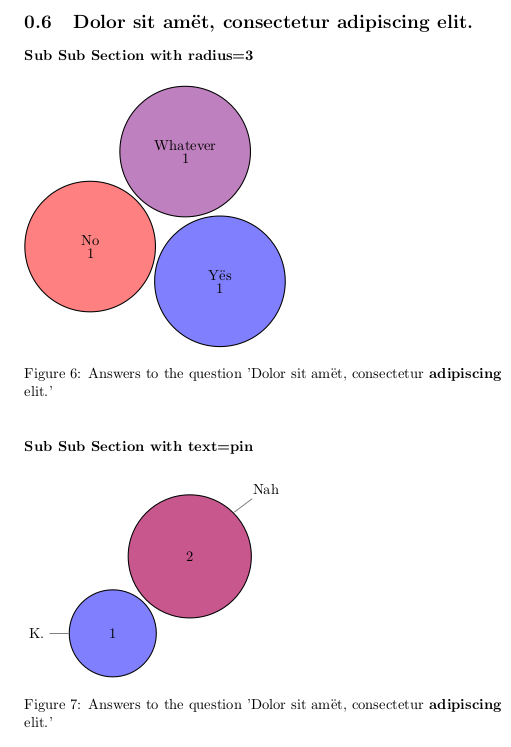
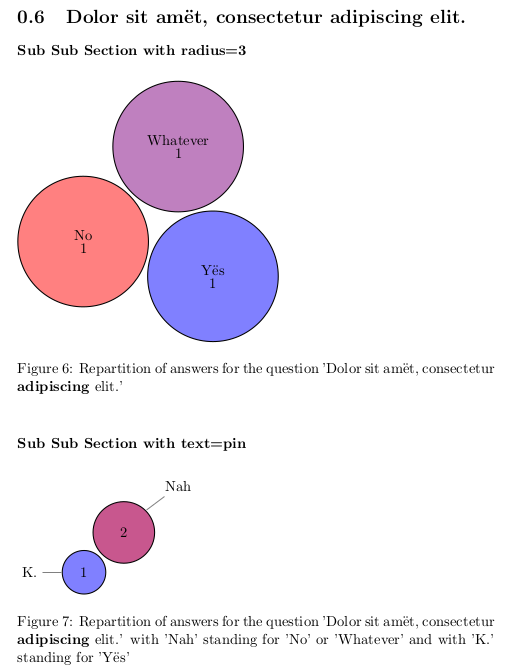
Feat - Better label for tex generated charts
With details about what is displayed in the diagram:
group_together
filter
min_cardinality

diff --git a/survey/exporter/tex/question2tex.py b/survey/exporter/tex/question2tex.py
@@ -9,6 +9,7 @@ from builtins import object
 
 from django.conf import settings
 from django.utils.translation import ugettext_lazy as _
+from django.utils.translation import ungettext
 from future import standard_library
 
 standard_library.install_aliases()
@@ -171,6 +172,35 @@ class Question2Tex(object):
         return raw_answers
 
     @staticmethod
+    def get_caption(question, min_cardinality, filter, group_together):
+        """ Return a caption with an appropriate description of the chart. """
+        caption = "{} ".format(_("Repartition of answers"))
+        if min_cardinality > 0:
+            caption += "{} {} ".format(_("with"), ungettext(
+                "%(min_cardinality)d respondants or more",
+                "%(min_cardinality)d respondant or more",
+                min_cardinality) % {'min_cardinality': min_cardinality, }
+            )
+        if filter:
+            caption += "{} ".format(_("excluding"))
+            for excluded in filter:
+                caption += "'{}', ".format(excluded)
+            caption = "{} ".format(caption[:-2])
+        caption += "%s '%s' " % (
+            _("for the question"), Question2Tex.html2latex(question.text)
+        )
+        if group_together:
+            for key, values in group_together.items():
+                # We duplicate the translations so makemessage find it
+                caption += "with '{}' standing for ".format(key)
+                for value in values:
+                    caption += "'{}' {} ".format(value, _("or"))
+                caption = caption[:-len("{} ".format(_("or")))]
+                caption += "{} ".format(_("and"))
+            caption = caption[:-len("{} ".format(_("and")))]
+        return "{}.".format(caption[:-1])
+
+    @staticmethod
     def chart(question, min_cardinality=0, group_by_letter_case=None,
               group_by_slugify=None, group_together=None, sort_answer=None,
               pos=None, rotate=None, radius=None, color=None,
@@ -203,19 +233,15 @@ class Question2Tex(object):
         results = Question2Tex.get_results(cardinality, sort_answer)
         if not results:
             return str(_("No answers for this question."))
-        chart = """\\pie%s{
-%s
-        }
-""" % (options, results)
-        caption = "\label{figure:q%d-%d} %s '%s'" % (
-            question.pk, latex_label, _("Answers to the question"),
-            Question2Tex.html2latex(question.text)
-        )
+        caption = Question2Tex.get_caption(question, min_cardinality, filter,
+                                           group_together)
         return """
 \\begin{figure}[h!]
     \\begin{tikzpicture}
-        %s
+        \\pie%s{
+%s
+        }
     \\end{tikzpicture}
-    \\caption{%s}
+    \\caption{\label{figure:q%d-%d}%s}
 \\end{figure}
-""" % (chart, caption)
+""" % (options, results, question.pk, latex_label, caption)

diff --git a/survey/tests/exporter/tex/test_question2tex.py b/survey/tests/exporter/tex/test_question2tex.py
@@ -71,6 +71,25 @@ class TestQuestion2Tex(TestManagement):
         question = self.survey.questions.get(text="Aèbc?")
         self.assertIsNotNone(Question2Tex.chart(question, type="cloud"))
 
+    def test_get_caption(self):
+        """ We can create a filtered chart with a proper caption. """
+        qst = self.survey.questions.get(text="Cède?")
+        mc = 0
+        flt = {}
+        gt = {}
+        self.assertIn("2 respondant or more",
+                      Question2Tex.get_caption(qst, 2, flt, gt))
+        self.assertIn("excluding 'Toto' ",
+                      Question2Tex.get_caption(qst, mc, ["Toto"], gt))
+        self.assertIn(
+            "excluding 'Toto', 'Titi', 'Tutu' ",
+            Question2Tex.get_caption(qst, mc, ["Toto", "Titi", "Tutu"], gt)
+        )
+        self.assertIn(
+            "with 'No' standing for 'No' or 'Maybe'.",
+            Question2Tex.get_caption(qst, mc, flt, {"No": ["No", "Maybe"]})
+        )
+
     def test_raw_chart(self):
         """ We can create a raw chart. """
         question = self.survey.questions.get(text="Aèbc?")

diff --git a/survey/tests/exporter/tex/test_configuration.py b/survey/tests/exporter/tex/test_configuration.py
@@ -32,7 +32,7 @@ class TestConfiguration(TestManagement):
         self.qts_expected_conf = {
             "min_cardinality": 0,
             "type": "cloud",
-            "radius": 2,
+            "radius": 1,
             "text": "inside"
         }
 

diff --git a/readme.md b/readme.md
@@ -78,18 +78,18 @@ If you use this configuration for the previous question:
 Test survëy:
   Dolor sit amët, consectetur<strong>  adipiscing</strong>  elit.:
     multiple_charts:
-	Sub Sub Section with radius=3 :
-	    color: {"Yës": "blue!50", "No": "red!50",
-		    "Whatever": "red!50!blue!50"}
-	    radius: 3
-	Sub Sub Section with text=pin :
-	    group_together: {"Nah": ["No", "Whatever"], "K.": ["Yës"]}
-	    color: {"Nah": "blue!33!red!66", "K.": "blue!50"}
-	    text: pin
+      Sub Sub Section with radius=3 :
+        color: {"Yës": "blue!50", "No": "red!50",
+                "Whatever": "red!50!blue!50"}
+        radius: 3
+      Sub Sub Section with text=pin :
+        group_together: {"Nah": ["No", "Whatever"], "K.": ["Yës"]}
+        color: {"Nah": "blue!33!red!66", "K.": "blue!50"}
+        text: pin
     chart:
-	radius: 2
-	type: cloud
-	text: inside
+      radius: 1
+      type: cloud
+      text: inside
 ~~~~
 
 You get this as a result:
